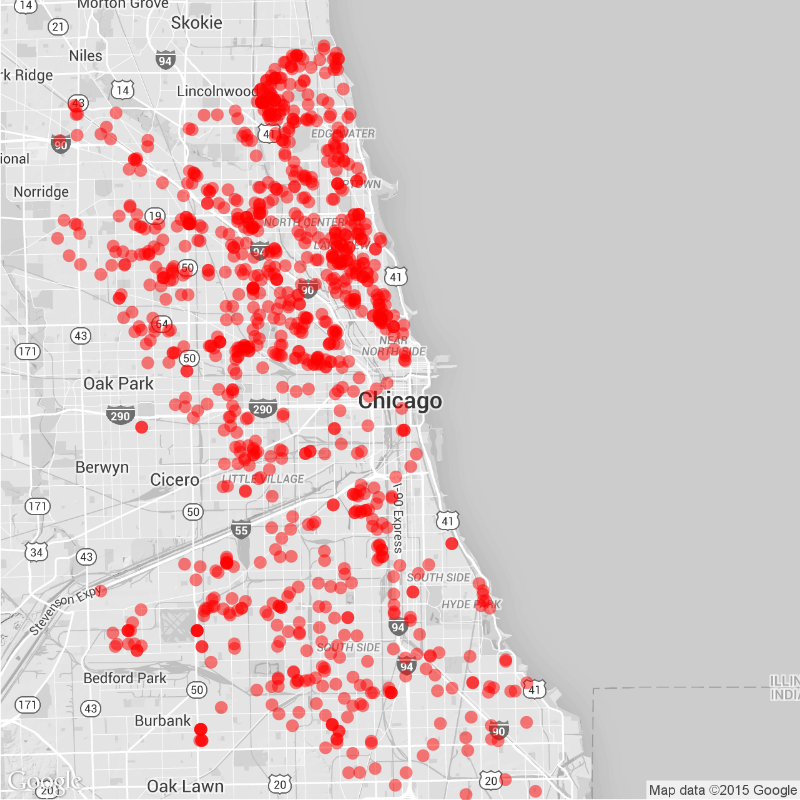
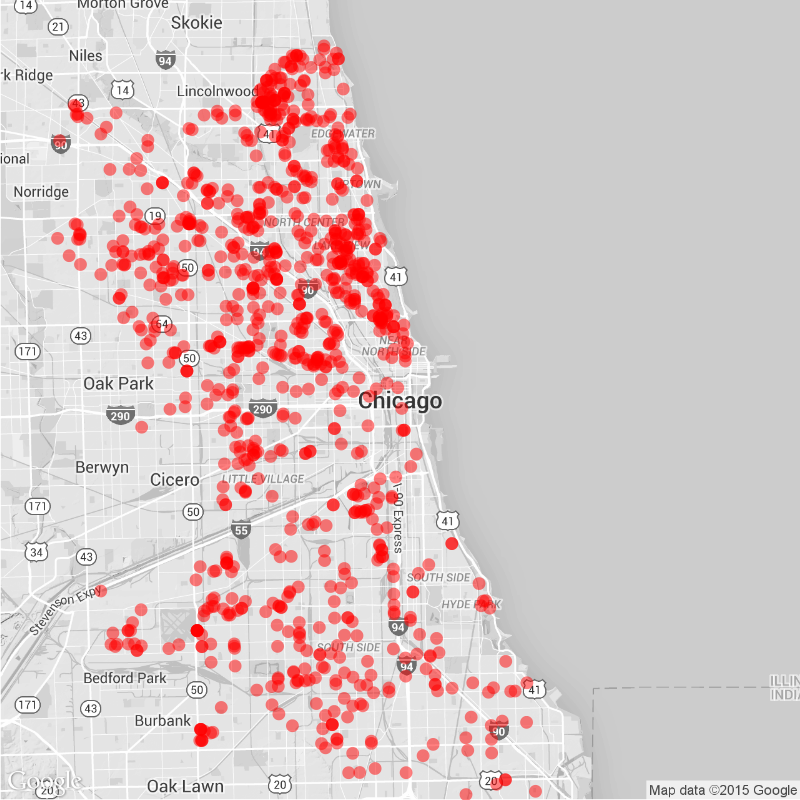
Daily Maps

diff --git a/daily.md b/daily.md
@@ -15,22 +15,22 @@ tags: Chicago NYC weekly daily rats
 
 ### Daily
 
-Yesterday (September 03), there were 169 calls to Chicago's 311 line about rats.
+Yesterday (September 04), there were 147 calls to Chicago's 311 line about rats.
 ![Chicago rat calls to 311 weekly map]({{ site.cityimages }}/daily/Chicago_Rat_Map_Daily.png)
 
 ### Weekly
-Between August 28 and September 03, there were 1040 calls to Chicago's 311 line about rats. The average number of weekly calls for this time of year is 889.
+Between August 29 and September 04, there were 1026 calls to Chicago's 311 line about rats. The average number of weekly calls for this time of year is 889.
 ![Chicago rat calls to 311 weekly map]({{ site.cityimages }}/daily/Chicago_Rat_Map_Weekly.png)
 ***
 # New York City <a id="nyc"><a>
 
 ### Daily
 
-Yesterday (September 03), there were 0 calls to New York City's 311 line about rats.
+Yesterday (September 04), there were 0 calls to New York City's 311 line about rats.
 ![NYC rat calls to 311 weekly map]({{ site.cityimages }}/daily/NYC_Rat_Map_Daily.png)
 
 ### Weekly
-Between August 28 and September 03, there were 0 calls to New York City's 311 line about rats. The average number of weekly calls for this time of year is 257.
+Between August 29 and September 04, there were 0 calls to New York City's 311 line about rats. The average number of weekly calls for this time of year is 257.
 ![NYC rat calls to 311 weekly map]({{ site.cityimages }}/daily/NYC_Rat_Map_Weekly.png)
 
 Each red dot represents one call about a rat seen in that location. The dots are transparent, so multiple calls from one location will be seen as a solid dot. The usual caveats apply: more calls do not necessarily mean that there are more rats in that location than other parts of the city. A cluster of dots could indicate that one resident is unusually vocal about rodents in his or her neighborhood. Also, more densely populated neighborhoods tend to make more calls to 311.
